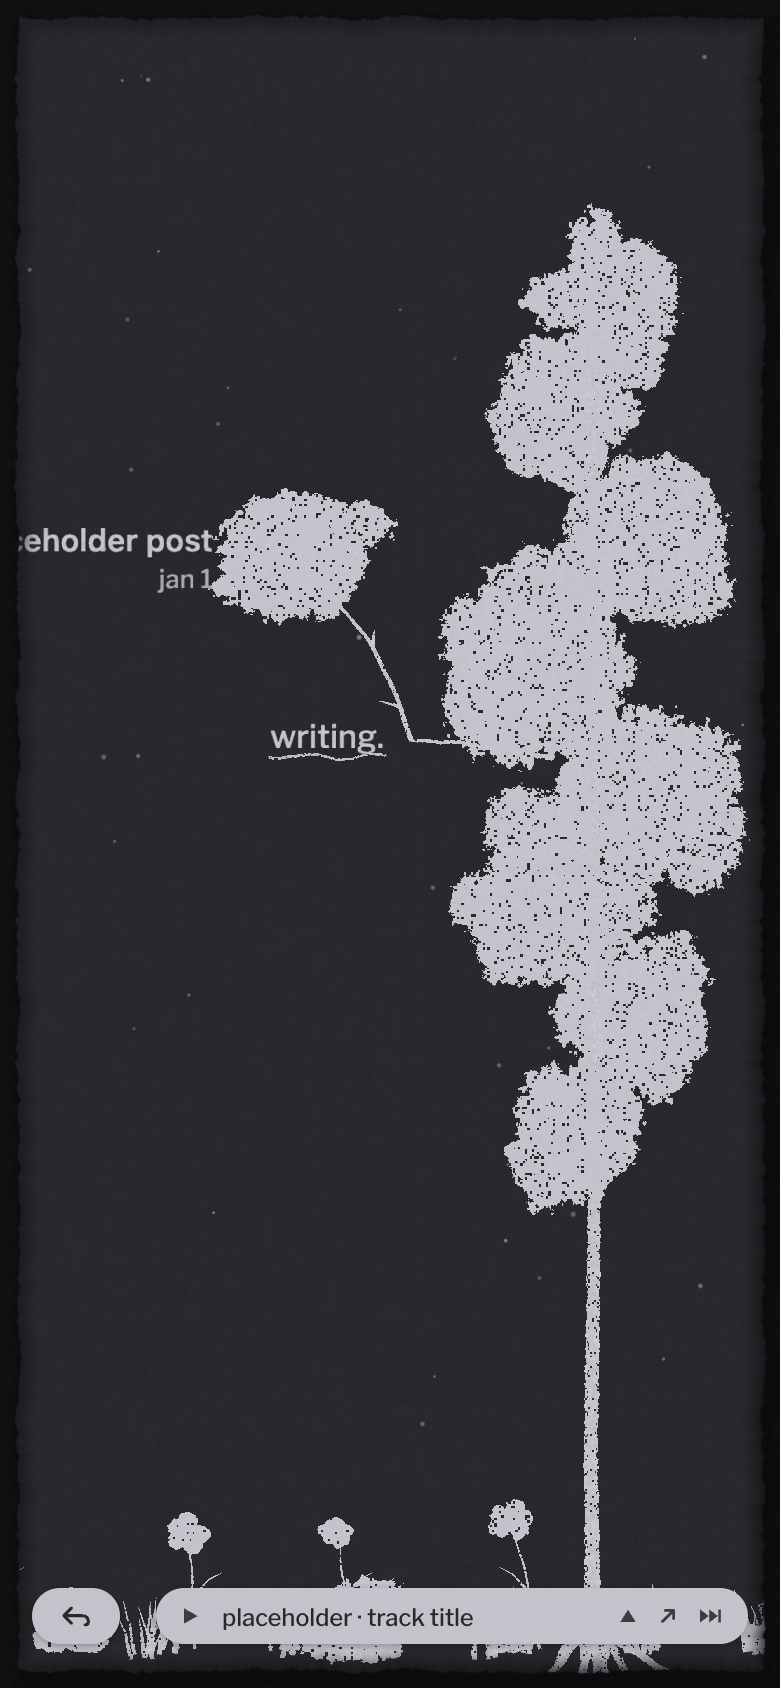
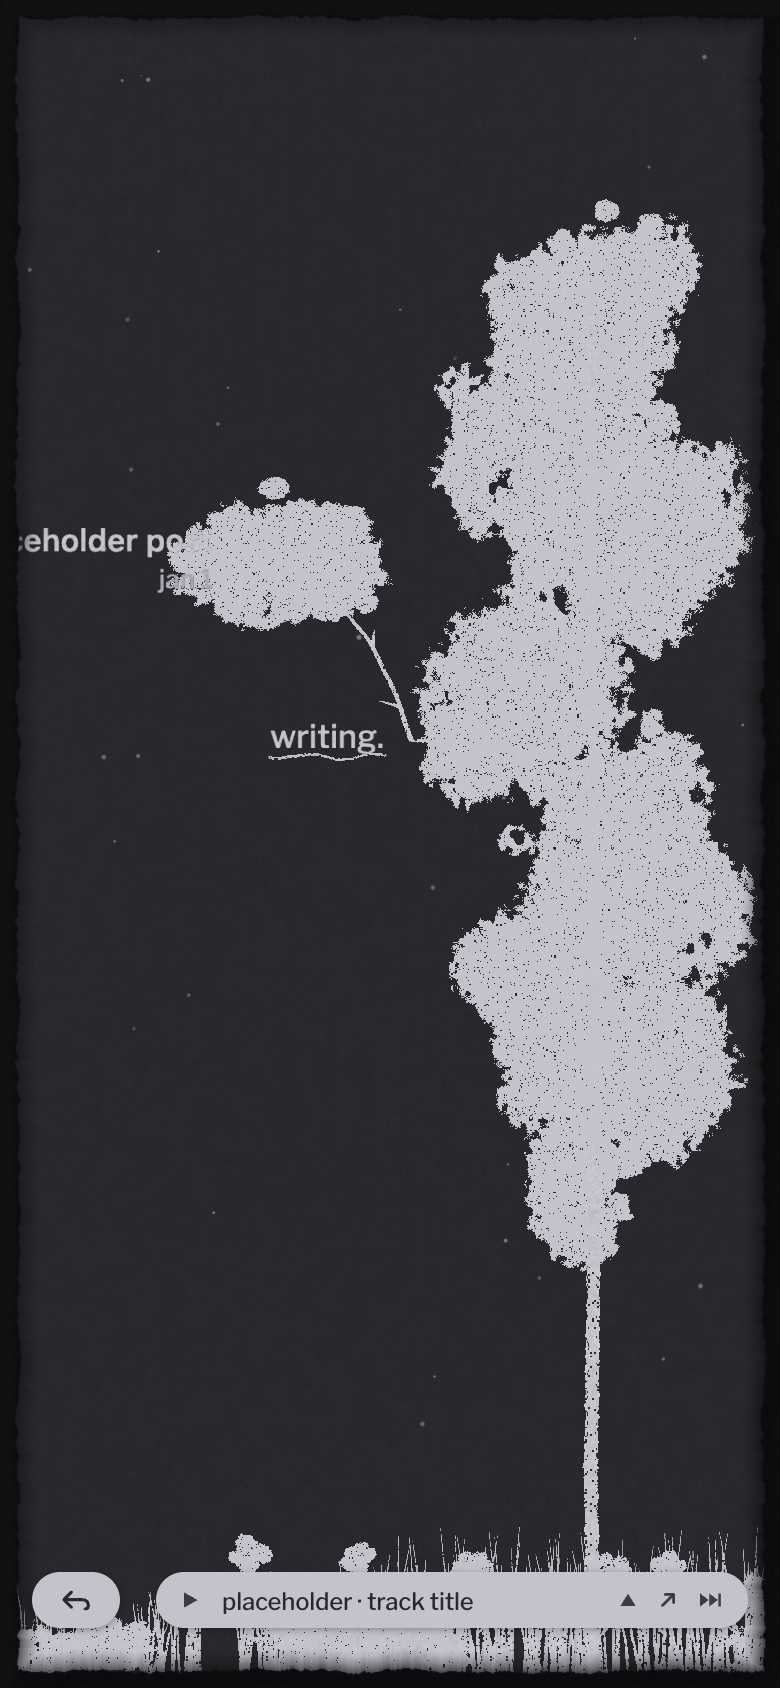
docs(verification): update Round 3 final screenshots and verification report

diff --git a/docs/verification.md b/docs/verification.md
@@ -7,7 +7,42 @@
 - **Typecheck & Production Build**: `pnpm build` (`tsc -b && vite build`) — passed with exit code `0`.
 - **Headless Browser Verification**: Playwright (`chromium`, Google Chrome channel) running against `vite preview` under software WebGL (`--use-gl=angle --use-angle=swiftshader --enable-webgl --ignore-gpu-blocklist`) — finished with **0 console errors** and **0 uncaught page errors**.
 
-## 2. Round 2 Acceptance Fixes & Checks Performed
+## 2. Round 3 (Final) Acceptance Fixes & Checks Performed
+
+### Fixes Verified (Round 3)
+1. **Ground Band, Irregular Granular Base & Thick `me` Shrubs**:
+   - Restored a continuous full-width undulating grass band in [`buildGroundFlora`](file:///Users/mac/workspace/projects/ink-tree-site/src/tree/geometry.ts) (`bandHeight = 29` desktop -> `~20–35 CSS px`, `bandHeight = 46` mobile -> `~40–60 CSS px`), with density/height waves peaking around `trunkX` and meadow crests.
+   - Added broken undulating ground-bed ink strokes (`groundBedGeometry`) along the bottom horizon for an irregular granular base without a ruler-straight solid line.
+   - Kept 8–12 uneven scattered wildflowers (`flowerCount = 11` desktop / `9` mobile within viewport `flowerRange`) clear of the bottom-right music player.
+   - Expanded `extraFlora` (`bandHeight = 66` desktop / `62` mobile across `[trunkX - 420, trunkX + 1080]`) and 7 `shrubCenters` mounds so `me` / zoomed states reveal a thick `~60–80px` grass band (`fill = 23.67%` across `y = 75%..87%`) with stippled shrub clusters.
+2. **Asymmetrical Canopy Irregularity, Fragments, Dark Holes & DPR Grain Scaling**:
+   - Replaced regular alternating `±dx` layers in [`InkTreeScene.rebuildWorld`](file:///Users/mac/workspace/projects/ink-tree-site/src/tree/InkTreeScene.ts) with 12 desktop / 11 mobile asymmetrical non-periodic clusters spanning radius scales `0.46..1.08` (`~0.5–1.3`), irregular gaps, and varied thickness.
+   - Updated [`generateCanopyCluster`](file:///Users/mac/workspace/projects/ink-tree-site/src/tree/geometry.ts) to emit varied lobe scales (`0.36..0.90`) plus 2–4 outer edge protrusions and satellite ink fragments.
+   - Updated [`CANOPY_FRAG`](file:///Users/mac/workspace/projects/ink-tree-site/src/tree/shaders.ts) with higher-frequency jagged edge noise, larger interior paper voids (`bigVoid`), and `uPixelRatio`-scaled grain coordinates (`grainCoord = vWorld * dpr`, softened pinhole threshold on `dpr > 1.3`) so `2x` mobile silkscreen grain matches `1x` CSS dot sizing without oversized dark blobs.
+3. **`me` Bio Typography (~15px / 1.6 / ~300px), 4-Paragraph Fold & Wheel/Drag Scroll + Smaller Tree**:
+   - Zoomed desktop `me` camera to `{ x: 425, y: -56, zoom: 0.92 }` (~10% smaller tree cleanly spanning `x = 3.0%..27.9%, y = 5.8%..87.9%`).
+   - Rendered bio paragraphs at `16.3` world units (`15.0 CSS px` under `zoom: 0.92`), `lineHeightRatio = 1.58`, `maxWidth = 332` (`~305 CSS px`), keeping all 6 paragraphs cleanly structured while clipping at the 4th-paragraph fold (`y ≈ 61–63%`, `0.00%` ink in `y = 63%..73%` above the grass band) via `uClipY` in [`INK_TEXT_FRAG`](file:///Users/mac/workspace/projects/ink-tree-site/src/tree/shaders.ts).
+   - Added vertical wheel (`wheelHost`) and column pointer-drag scrolling in [`InkTreeScene`](file:///Users/mac/workspace/projects/ink-tree-site/src/tree/InkTreeScene.ts) — Playwright confirmed `send a line` (paragraph 6) transitions cleanly from `0` visible initially to `1` visible after wheel scroll.
+4. **`updates` Lower-Left Canopy Framing & Arch Tip**:
+   - Updated desktop `updates` camera to `{ x: 278, y: 382, zoom: 0.94 }` and branch arch span to `(480, 450)` so the main canopy occupies the lower-left corner (`x = 4.4%..35.9%`, `y = 53.6%..97.9%`) and the 7 tapering clouds curve smoothly up-right toward `x ≈ 65%, y ≈ 30%`.
+5. **Mobile Music Caption Hugging Pill Over Grass Band**:
+   - Tightened mobile [`.music-widget`](file:///Users/mac/workspace/projects/ink-tree-site/src/index.css) (`bottom: 30px`) and `.music-caption` (`margin-left: 10px; margin-bottom: 1px; line-height: 1.18`) — Playwright measured `gapAbovePill: 1`, placing the caption (`y = 89.8%..93.0%`) directly above the pill and nestled onto the lower grass band.
+
+### Quantitative Verification Summary (Round 3)
+- **Build**: `pnpm build` (`tsc -b && vite build`) — exit code `0`.
+- **Console / Page Errors**: `0` desktop, `0` mobile, `0` reduced-motion.
+- **Playwright Assertions**:
+  - Home `a[href^="/blog/"]` count: `1`; Desktop `main button:visible` `/^me$/` count: `1` (3s hover/click passed).
+  - Desktop `me` bio scroll fold: `initialSendCount: 0` -> `scrolledSendCount: 1`.
+  - Desktop music caption: `gapAbovePill: 6`, `leftOffsetFromPill: 20`, `fontSize: "14.5px"`.
+  - Mobile music caption: `gapAbovePill: 1`, `capTopPct: 0.898`, `capBotPct: 0.93`.
+  - Mobile `"work with me"` hit-box: `{ x: 21.5, y: 127, width: 119, height: 40 }` (`>= 16px` left margin).
+
+### Final Screenshots Captured (`docs/verification/`)
+- **Desktop (`1440x900`)**: [`home-desktop.png`](./verification/home-desktop.png), [`hover-me.png`](./verification/hover-me.png), [`click-me.png`](./verification/click-me.png), [`click-updates.png`](./verification/click-updates.png), [`click-writing.png`](./verification/click-writing.png), [`click-work.png`](./verification/click-work.png), [`post-desktop.png`](./verification/post-desktop.png).
+- **Mobile (`390x844@2x`, `780x1688` output, touch enabled)**: [`home-mobile.png`](./verification/home-mobile.png), [`click-me-mobile.png`](./verification/click-me-mobile.png), [`click-updates-mobile.png`](./verification/click-updates-mobile.png), [`click-writing-mobile.png`](./verification/click-writing-mobile.png), [`click-work-mobile.png`](./verification/click-work-mobile.png), [`post-mobile.png`](./verification/post-mobile.png).
+
+## 3. Round 2 Acceptance Fixes & History
 
 ### Fixes Verified (Round 2)
 1. **Home Canopy Width, Solidity, S-Curve & Short Twigs (`1440x900` & `390x844@2x`)**:
@@ -45,7 +80,7 @@
 - **Mobile (`390x844@2x`, `780x1688` output, touch enabled)**: [`home-mobile.png`](./verification/home-mobile.png), [`click-me-mobile.png`](./verification/click-me-mobile.png), [`click-updates-mobile.png`](./verification/click-updates-mobile.png), [`click-writing-mobile.png`](./verification/click-writing-mobile.png), [`click-work-mobile.png`](./verification/click-work-mobile.png), [`post-mobile.png`](./verification/post-mobile.png).
 - **Reduced Motion (`1440x900`, `prefers-reduced-motion: reduce`)**: Verified instant branch open transitions with `0` errors.
 
-## 3. Round 1 Acceptance Fixes & History
+## 4. Round 1 Acceptance Fixes & History
 
 ### Round 1 Fixes Verified
 1. **Canopy Ink, Dither & Cloud Layering (`#c4c3cc`)**: Fixed Three.js linear-vs-sRGB `THREE.Color` conversion (`THREE.LinearSRGBColorSpace` on `INK_COLOR`), increased screen-print contrast/pinhole dither and interior paper voids in `CANOPY_FRAG`, and split the canopy into 8–9 horizontally staggered front/back cloud layers (`z=1.65` and `z=2.35`) around the trunk (`z=2.0`) so coves, dark seams, and the central trunk peek through.
@@ -59,18 +94,19 @@
 9. **Playwright Clickability & Stability**: Rendered actual visible label text inside `.tree-hit-target` controls at `z-index: 15`, snapped settled camera interpolation to prevent subpixel drift, and removed duplicate `.sr-only` `<button>` elements inside `<main>`.
 10. **Post Pages (`/blog/*`, `/updates/*`)**: Strengthened the `150px` subtle horizontal divider (`~135px` rendered under `zoom: 0.9`) above `.post-footer-links` and removed inline `<code>` box styling and backticks (`codeCount: 0`).
 
-## 4. Residual Visual & Functional Differences
+## 5. Residual Visual & Functional Differences
 
 This implementation targets perceptual and interactive parity while generating 100% original geometry, shaders, copy, and artwork. Known residual differences relative to `.reference/` include:
 
 1. **Procedural tree, foliage, and grass shapes**: Built deterministically from our own Mulberry32 + 2D FBM botanical generators (`src/tree/geometry.ts`), so individual canopy cloud contours, thorn positions, root forks, and grass blade angles differ in micro-silhouette from the reference.
 2. **Paper grain, torn border, and ink stippling texture**: Implemented via custom procedural GLSL value/FBM noise shaders (`src/tree/shaders.ts`) rather than raster texture stamps, resulting in slightly more uniform micro-grain distribution across scales.
 3. **Bio photography & update imagery**: Uses 4 procedurally drawn abstract grayscale compositions (`rings`, `horizon`, `monolith`, `lattice` in `src/tree/proceduralArt.ts`) screened through our halftone shader, plus SVG abstract studies (`src/components/AbstractStudy.tsx`) in update posts instead of real photographs.
-4. **Ambient audio widget**: Synthesizes 3 calming WebAudio chord/arpeggio loops (`src/audio/synthPlayer.ts`) on demand instead of streaming external/copyrighted audio files; the external arrow (`↗`) links to placeholder URLs.
-5. **Hand-drawn music caption lettering & arrow**: Rendered with styled Libre Franklin + SVG curved arrow (`src/components/MusicWidget.tsx`) rather than scanned handwriting glyphs.
-6. **Software WebGL rendering**: Verified in headless Chrome via SwiftShader ANGLE; hardware GPUs may exhibit subtle subpixel antialiasing differences on crisp text planes and halftone dots.
+4. **`me` bio column scrolling**: Implemented via WebGL `uClipY` soft vertical fade and wheel/column-drag scrolling (`InkTreeScene.ts`) rather than a native DOM scrollable container, so no browser scrollbar chrome appears.
+5. **Ambient audio widget**: Synthesizes 3 calming WebAudio chord/arpeggio loops (`src/audio/synthPlayer.ts`) on demand instead of streaming external/copyrighted audio files; the external arrow (`↗`) links to placeholder URLs.
+6. **Hand-drawn music caption lettering & arrow**: Rendered with styled Libre Franklin + SVG curved arrow (`src/components/MusicWidget.tsx`) rather than scanned handwriting glyphs.
+7. **Software WebGL rendering**: Verified in headless Chrome via SwiftShader ANGLE; hardware GPUs may exhibit subtle subpixel antialiasing differences on crisp text planes and halftone dots.
 
-## 5. Original Asset & Dependency Provenance
+## 6. Original Asset & Dependency Provenance
 
 - **GLSL Shaders (`src/tree/shaders.ts`)**: Written from scratch for this project (paper background, viewport torn bevel frame, grainy strokes, stippled canopies, halftone photos, masking tape, ink text fade, drifting dust).
 - **Procedural Botany & Art (`src/tree/rng.ts`, `src/tree/geometry.ts`, `src/tree/proceduralArt.ts`)**: Written from scratch; zero traced contours or reference image masks.
